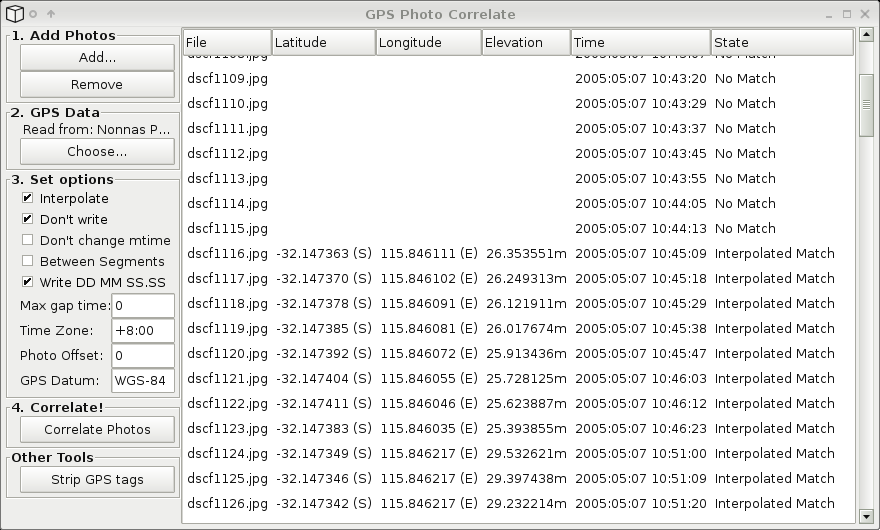
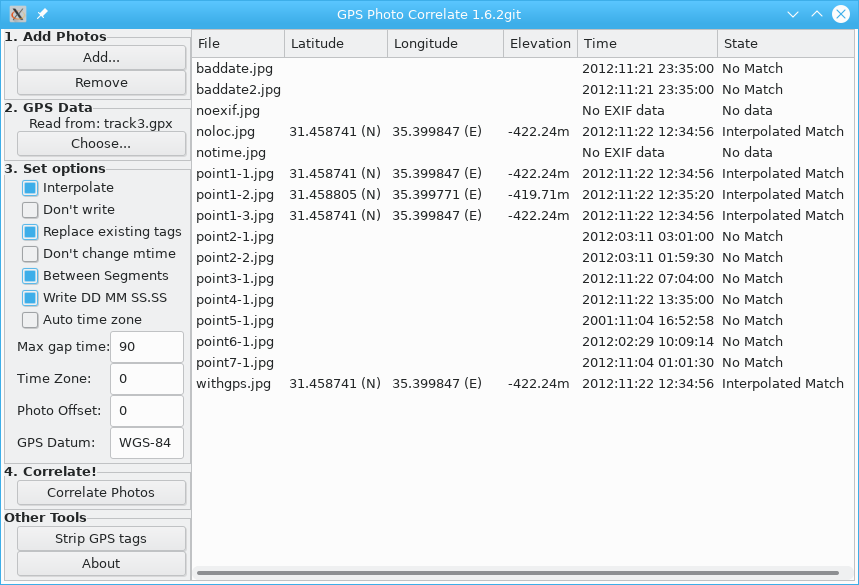
Added the new features and a new screenshot to the GUI doc.

Changed region(s): [[0.0, 0.0, 1.0, 1.0]]

diff --git a/doc/gui.html b/doc/gui.html
@@ -12,7 +12,7 @@
 
 <h2>The Correlation Window</h2>
 
-<img src="corr.png" alt="The Correlation Window, 89,363 bytes" width="880" height="530">
+<img src="corr.png" alt="The Correlation Window" width="859" height="585">
 
 <h2>How to use the Correlation Window</h2>
 
@@ -40,9 +40,11 @@
 
 <p>The <b>"Write DD MM SS.SS"</b> checkbox, if un-checked, will force the pre 1.5.3 behaviour of writing Longitude and Latitude as DD MM.MM values. The default is now to write values in DD MM SS.SS.</p>
 
+<p>The <b>"Auto time zone"</b> checkbox, if checked, will choose an appropriate value for "Time Zone", based on the local time zone and the time of the first photo to be correlated.</p>
+
 <p>The <b>"Max gap time"</b> box specifies the maximum distance from a point that a photo will be matched. In seconds.</p>
 
-<p>The <b>"Time Zone"</b> box specifies the time zone that the photos were taken in, so that the times of the photos can be adjusted to match the GPS data.</p>
+<p>The <b>"Time Zone"</b> box specifies the time zone that the photos were taken in, so that the times of the photos can be adjusted to match the GPS data. This can only be specified if "Auto time zone" is unset.</p>
 
 <p>The <b>"Photo Offset"</b> box specifies the number of seconds to add to the photos time to match the GPS data. See the <a href="concepts.html">GPS Correlate Concepts</a> documentation to understand this value.</p>
 
@@ -56,9 +58,11 @@
 
 <p>The <b>"Strip GPS tags"</b> button will remove GPS tags from the selected photos.</p>
 
+<p>The <b>"About"</b> button will show basic information about the program.</p>
+
 <h3>Saving Settings</h3>
 
-<p>As of 1.5.4, when you exit the GUI program, it will save your settings to ~/.gpscorrelaterc. These will be reloaded next time you start gpscorrelate. The command line version does not make use of this file.</p>
+<p>As of 1.5.4, when you exit the GUI program, it will save your settings to ~/.config/.gpscorrelaterc (or ~/.gpscorrelaterc). These will be reloaded next time you start gpscorrelate. The command line version does not make use of this file.</p>
 
 <hr>
 
